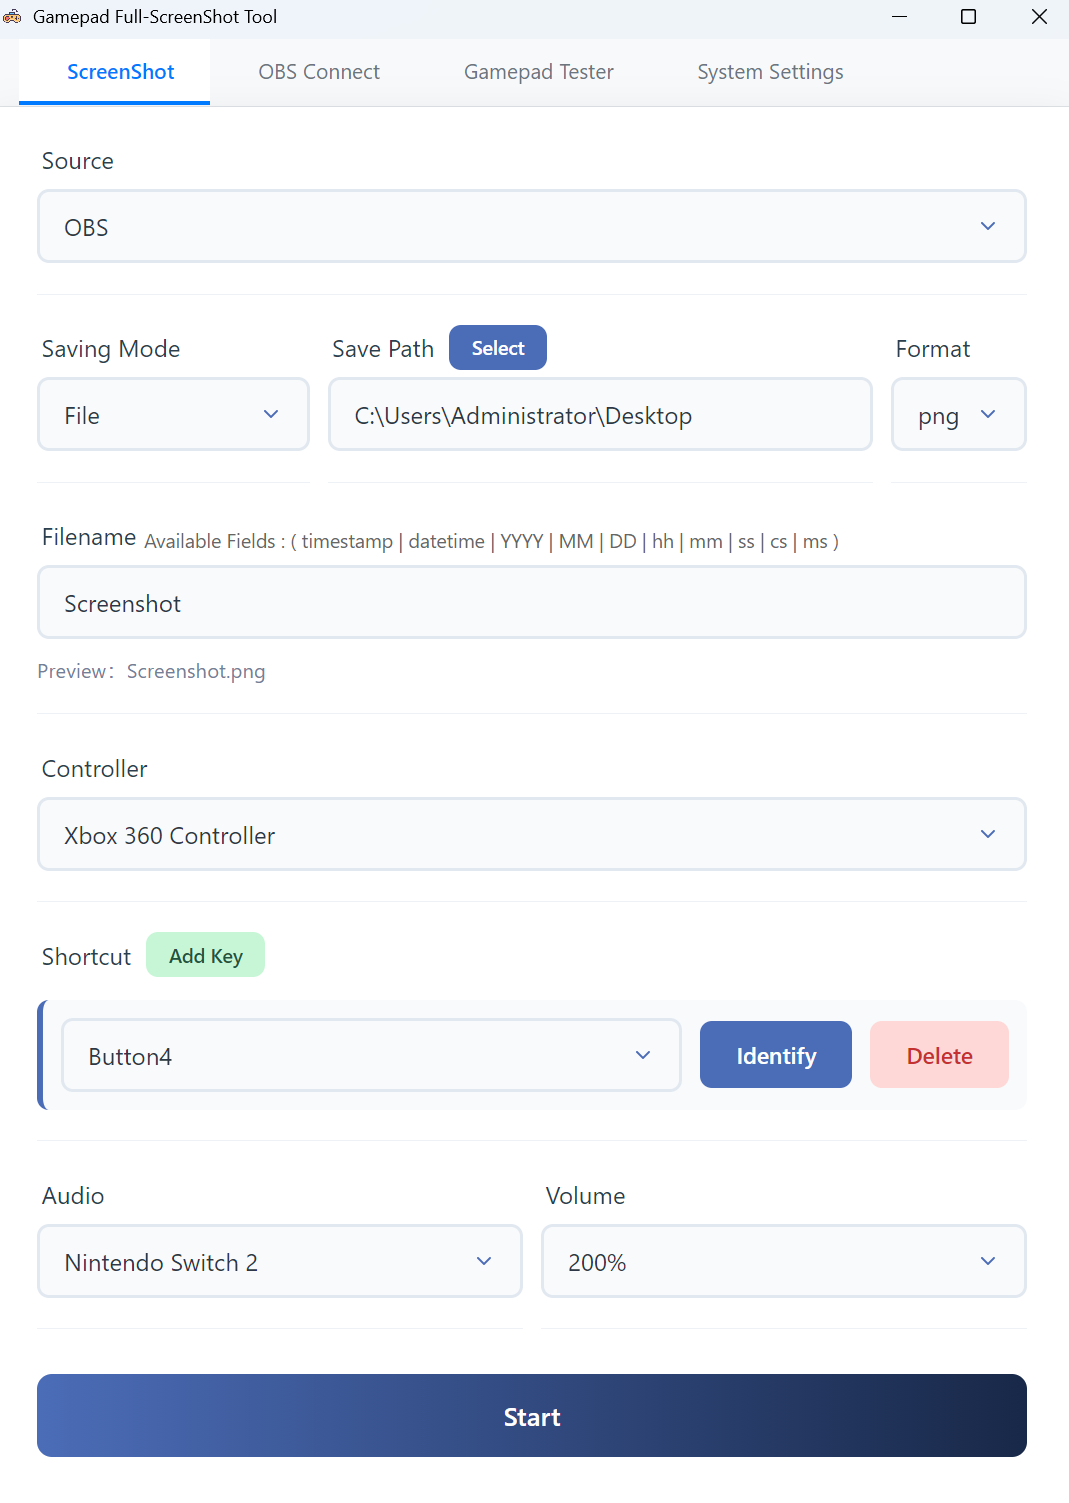
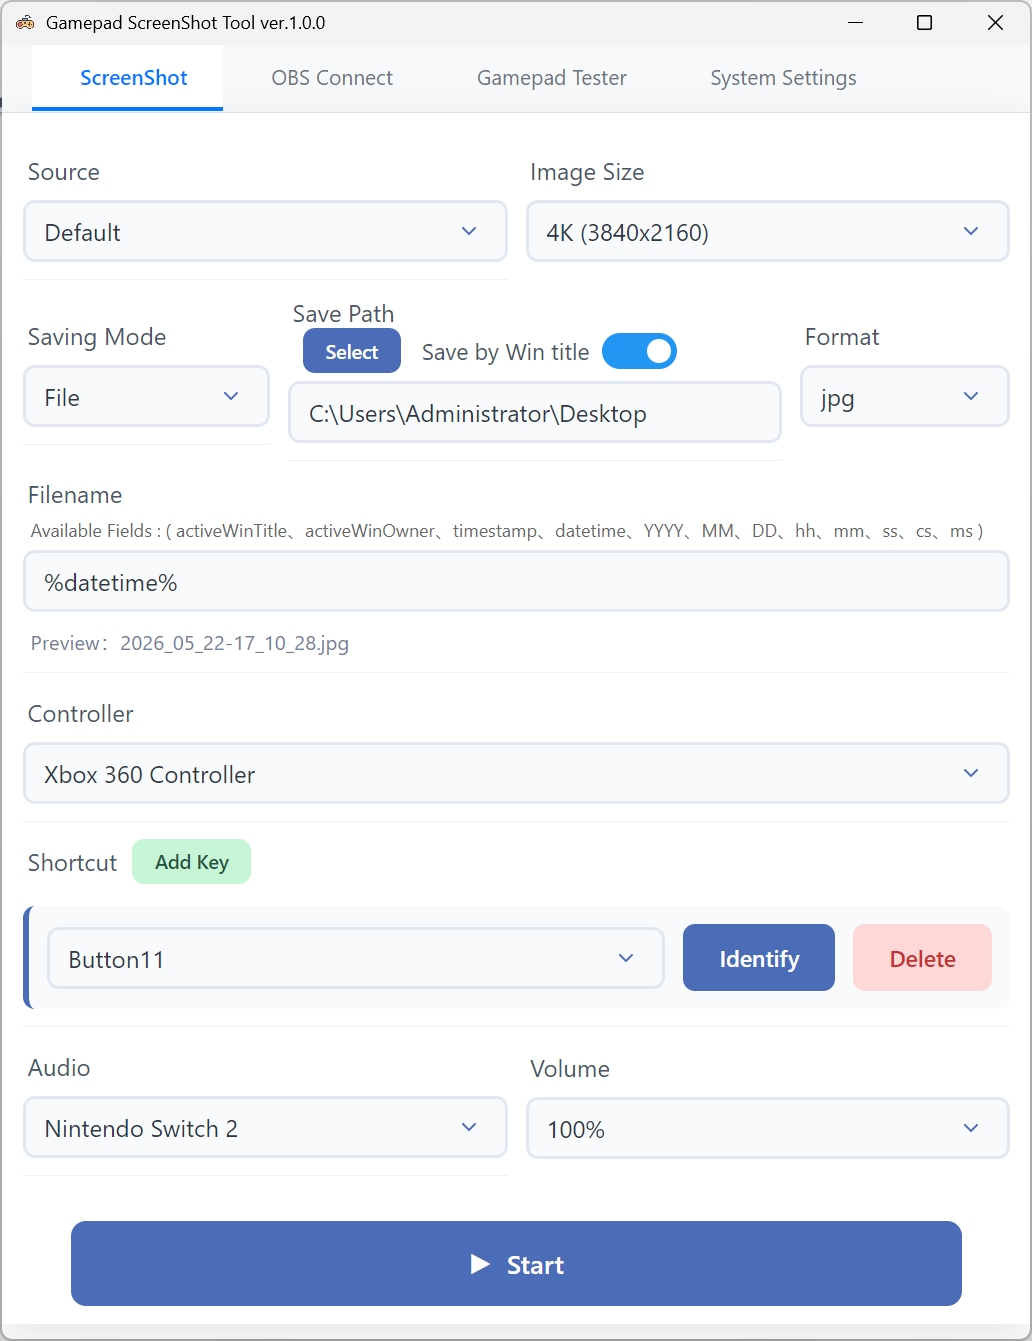
ReadMe

diff --git a/src/background.js b/src/background.js
@@ -56,10 +56,13 @@ if (!gotTheLock) {
   app.quit();
 }
 
+const packagePath = path.join(app.getAppPath(), 'package.json');
+const packageJson = JSON.parse(fs.readFileSync(packagePath, 'utf8'));
+
 async function createWindow() {
   // Create the browser window.
   win = new BrowserWindow({
-    title: $t('gamepadScreenShotTool'),
+    title: $t('gamepadScreenShotTool') + ` ver.${packageJson.version}`,
     width: 700,
     height: 900,
     autoHideMenuBar: true,
@@ -482,14 +485,11 @@ function checkForUpdates() {
         try {
           const release = JSON.parse(data);
           // 使用标题而不是tag，标题格式为 vx.x.x
-          const titleMatch = release.name.match(/v(\d+\.\d+\.\d+)/);
-          const latestVersion = titleMatch ? titleMatch[1] : release.tag_name.replace('v', '');
+          const latestVersion = release.tag_name.replace(/^v/, '');
 
           // 获取当前版本
           let currentVersion;
           try {
-            const packagePath = path.join(app.getAppPath(), 'package.json');
-            const packageJson = JSON.parse(fs.readFileSync(packagePath, 'utf8'));
             currentVersion = packageJson.version;
           } catch (error) {
             console.warn('Failed to read package.json:', error);
@@ -653,7 +653,7 @@ log.transports.console.level = false; // 生产环境可以关闭控制台打印
 // 封装一个优雅的“闪退”函数
 function crashAndExit(title, error) {
   // 同步写入日志，确保程序退出前数据已经落盘
-  log.error(`[FATAL CRASH] ${title}:`, error);
+  log.error(`[FATAL CRASH] [Version:${packageJson.version}] ${title}:`, error);
   let path = log.transports.file.getFile().path;
   dialog.showErrorBox(
     $t('alertMsg.fatalCrashTitle'),

diff --git a/src/components/SystemSettingsPage.vue b/src/components/SystemSettingsPage.vue
@@ -38,7 +38,7 @@
                     <div class="group-content">
                         <div class="setting-row">
                             <div class="setting-controls">
-                                <button class="btn compact" @click="openLogFolder">{{ $t('SystemSettingsPage.openLogFolder') }}</button>
+                                <button class="btn compact" style="background: linear-gradient(to right, #4b6cb7, #4b6cb7);color: #fff;" @click="openLogFolder">{{ $t('SystemSettingsPage.openLogFolder') }}</button>
                             </div>
                         </div>
                     </div>

diff --git a/README_EN.md b/README_EN.md
@@ -38,6 +38,12 @@ A utility that allows you to trigger **Full-screen screenshots** or **OBS screen
   <img src="./images/1_en.jpg" alt="Main Interface" width="600" />
 </p>
 
+#### 🖼 Overlay Notify
+
+<p align="center">
+  <img src="./images/5.gif" alt="覆层通知" width="600" />
+</p>
+
 ---
 
 ## 🎮 How to Set Up Button Combinations
@@ -73,21 +79,7 @@ A utility that allows you to trigger **Full-screen screenshots** or **OBS screen
 
 ---
 
-## 📋 TODO
 
-- [x] Migrated from HID to **SDL2** for better controller compatibility
-- [x] Integrated **OBS Socket service** for OBS-based captures
-- [x] Audio volume adjustment
-- [x] Selectable JPG/PNG formats
-- [x] Customizable filenames
-- [x] Copy to clipboard functionality
-- [x] Multi-language support
-- [x] Add "Focused Window Title" as a custom field for file naming
-- [x] Auto-start
-- [x] Update detection
-- [x] Minimize on startup
-
----
 
 ## ⚠ Known Limitations
 

diff --git a/README.md b/README.md
@@ -38,7 +38,7 @@
   <img src="./images/1.jpg" alt="软件主界面" width="600" />
 </p>
 
-#### 覆层通知
+#### 🖼 覆层通知
 
 <p align="center">
   <img src="./images/5.gif" alt="覆层通知" width="600" />
@@ -72,23 +72,6 @@
 </p>
 6. 返回软件的 **截图设置** 页面，将“截图方式”切换为 **OBS** 即可生效。
 
----
-## 📋 开发计划 (TODO)
-
-- [x] 摒弃HID 改用SDL2 从而实现更好的手柄兼容性
-- [x] 对接OBS的Socket服务 从而使用OBS来截图
-- [x] 音频音量调整
-- [x] jpg/png 格式开放成选项
-- [x] 文件名自定义
-- [x] 截图进剪切板
-- [x] 多语言
-- [x] 获取focus的窗口title作为文件名自定义的字段
-- [x] 打开软件和设备变化时可自动监听
-- [x] 开机自启动
-- [x] 更新检测
-- [x] 最小化启动
-
----
 
 ## ⚠ 已知局限性
 
